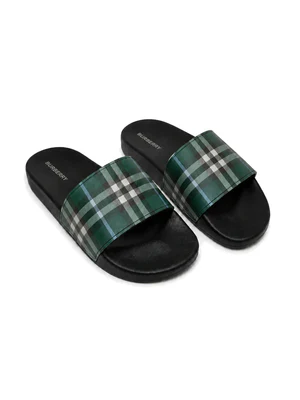
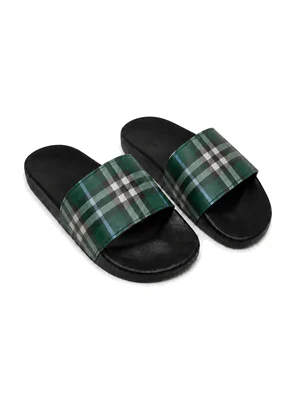
fix: match Burberry footbed branding

diff --git a/boutique.js b/boutique.js
@@ -602,7 +602,7 @@ window.AURA_IMG = function (img) {
   /* Les médias statiques sont servis un an en cache. Cette révision change
      leur URL à chaque livraison : le téléphone reçoit immédiatement la
      nouvelle image, puis la garde sans refaire de téléchargement inutile. */
-  var MEDIA_REV = "20260901g";
+  var MEDIA_REV = "20260901h";
   function mediaUrl(src){
     src = String(src || "");
     if (!/^(?:\.\/)?(?:assets|logos)\//.test(src)) return src;

diff --git a/catalogue.html b/catalogue.html
@@ -110,6 +110,6 @@
 <script src="supabase.config.js"></script>
 <script src="supabase-client.js?v=20260828l"></script>
 <script src="catalog.js?v=20260901b"></script>
-<script src="boutique.js?v=20260901g"></script>
+<script src="boutique.js?v=20260901h"></script>
 </body>
 </html>

diff --git a/collection.html b/collection.html
@@ -125,6 +125,6 @@
 <script src="supabase.config.js"></script>
 <script src="supabase-client.js?v=20260828l"></script>
 <script src="catalog.js?v=20260901b"></script>
-<script src="boutique.js?v=20260901g"></script>
+<script src="boutique.js?v=20260901h"></script>
 </body>
 </html>

diff --git a/femmes.html b/femmes.html
@@ -178,6 +178,6 @@
 <script src="supabase.config.js"></script>
 <script src="supabase-client.js?v=20260828l"></script>
 <script src="catalog.js?v=20260901b"></script>
-<script src="boutique.js?v=20260901g"></script>
+<script src="boutique.js?v=20260901h"></script>
 </body>
 </html>

diff --git a/gabarit-produit.html b/gabarit-produit.html
@@ -112,6 +112,6 @@
 <script src="supabase.config.js"></script>
 <script src="supabase-client.js?v=20260828l"></script>
 <script src="catalog.js?v=20260901b"></script>
-<script src="boutique.js?v=20260901g"></script>
+<script src="boutique.js?v=20260901h"></script>
 </body>
 </html>

diff --git a/hommes.html b/hommes.html
@@ -180,6 +180,6 @@
 <script src="supabase.config.js"></script>
 <script src="supabase-client.js?v=20260828l"></script>
 <script src="catalog.js?v=20260901b"></script>
-<script src="boutique.js?v=20260901g"></script>
+<script src="boutique.js?v=20260901h"></script>
 </body>
 </html>

diff --git a/index.html b/index.html
@@ -95,6 +95,6 @@
 <script src="supabase.config.js"></script>
 <script src="supabase-client.js?v=20260828l"></script>
 <script src="catalog.js?v=20260901b"></script>
-<script src="boutique.js?v=20260901g"></script>
+<script src="boutique.js?v=20260901h"></script>
 </body>
 </html>

diff --git a/marques.html b/marques.html
@@ -72,6 +72,6 @@
 <script src="supabase.config.js"></script>
 <script src="supabase-client.js?v=20260828l"></script>
 <script src="catalog.js?v=20260901b"></script>
-<script src="boutique.js?v=20260901g"></script>
+<script src="boutique.js?v=20260901h"></script>
 </body>
 </html>

diff --git a/JOURNAL-DE-REPRISE.md b/JOURNAL-DE-REPRISE.md
@@ -1223,3 +1223,14 @@ miniature carte 480 × 640, miniature coloris 144 × 192, quatre coins exactemen
 `7b07023` poussé sur `main` et confirmé sur Vercel ; la fiche `bb-check` répond
 HTTP 200 et le SHA-256 du fichier servi en production est exactement celui du
 nouveau fichier local.
+
+### Session du 1er septembre 2026 — corriger le marquage Burberry vert (en cours)
+
+Demande : reprendre le visuel vert généré car le marquage de la semelle ne
+correspond pas à la photo officielle. Le mot doit être noir, discret et
+imprimé dans la matière sur l'arrière de la semelle intérieure, jamais blanc
+ni traité comme un texte rapporté. État Git : `main` au commit `c21828c`,
+propre hors `design-qa.md` et `tmp/` non suivis et hors portée. Fichiers
+envisagés : visuel studio vert, miniatures dérivées, version de cache et
+journal. Risques : modifier le motif ou la forme de la paire, produire un
+marquage trop fort ou mal orthographié, laisser l'image précédente en cache.
